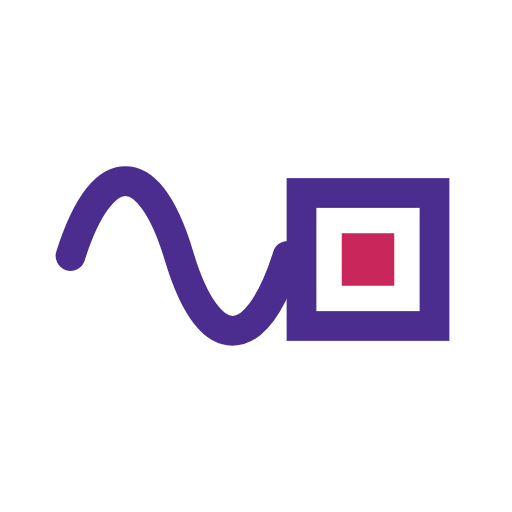
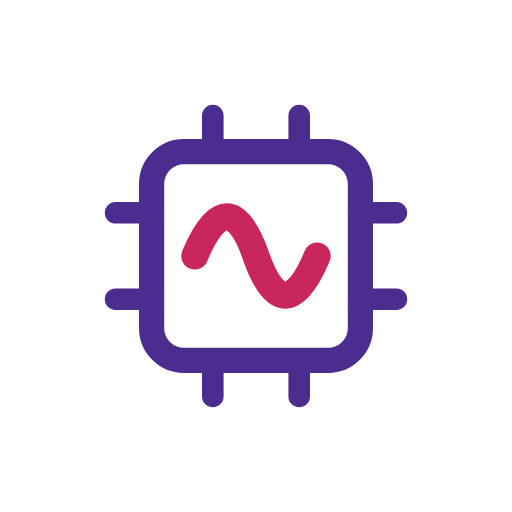
SEO optimizaTIONS...

Changed region(s): [[0.0938, 0.1875, 0.9062, 0.8125]]

diff --git a/vite.config.ts b/vite.config.ts
@@ -11,10 +11,12 @@ import {
 
 /**
  * The public origin the site is served from. Canonical URLs, Open Graph tags,
- * the sitemap, and the structured data all derive from this one value, so
- * moving the site to its real domain is a single edit here.
+ * the sitemap, and the structured data all derive from this one value.
+ *
+ * Set SITE_ORIGIN in the host's build environment to override it without
+ * touching the code; the fallback below is what ships if nothing is set.
  */
-const SITE_ORIGIN = "https://univabio.org";
+const SITE_ORIGIN = (process.env.SITE_ORIGIN ?? "https://univabio.org").replace(/\/$/, "");
 
 interface PageMeta {
   /** Public path, used for canonical and og:url. */
@@ -36,34 +38,34 @@ const pages: Record<string, PageMeta> = {
     path: "/",
     image: "/og/home.png",
     imageAlt: "UnivaBio: artificial intelligence for human health. Online worldwide, students 13 and up, closes October 6, 2026.",
-    title: "UnivaBio · A global student hackathon on AI for human health",
+    title: "UnivaBio · Online AI healthcare hackathon for students",
     description:
-      "UnivaBio is an online hackathon for students aged 13 and up, hosted by BioCataalysis with UnivaDev. Build an AI project for human health by October 6, 2026. $40,000 in non-cash sponsor prizes.",
+      "An online AI healthcare hackathon for students 13+, worldwide. Build an AI project for human health by October 6, 2026. $40,000 in non-cash sponsor prizes.",
   },
   "compete/index.html": {
     path: "/compete/",
     image: "/og/compete.png",
     imageAlt: "How to enter UnivaBio: four files, scored out of 25, closes October 6, 2026.",
-    title: "How to enter · UnivaBio",
+    title: "How to enter · UnivaBio AI hackathon",
     description:
-      "The four files every UnivaBio entry needs, the dates from submissions opening to winners, and the five criteria judges score each project against.",
+      "What to submit to this online AI healthcare hackathon: four files, the full schedule, and the five criteria judges score every project out of 25 against.",
   },
   "prizes/index.html": {
     path: "/prizes/",
     image: "/og/prizes.png",
     imageAlt: "UnivaBio prizes: $40,000 on the table, 104 winners, five categories, none of it cash.",
-    title: "Prizes · UnivaBio",
+    title: "Prizes · UnivaBio AI healthcare hackathon",
     description:
-      "Roughly $40,000 in non-cash sponsor prizes across five categories, awarded to 104 entrants, and the companies putting them up.",
+      "$40,000 in non-cash sponsor prizes across five categories, awarded to 104 entrants of this online student hackathon, and the companies putting them up.",
   },
   "rules/index.html": {
     path: "/rules/",
     faq: true,
     image: "/og/rules.png",
     imageAlt: "UnivaBio rules and answers: students 13 and up, solo or team, AI assistants welcome.",
-    title: "Rules & FAQ · UnivaBio",
+    title: "Rules & FAQ · UnivaBio student hackathon",
     description:
-      "Who can enter UnivaBio, what counts as a submission, how entries are scored out of 25, whether AI assistants are allowed, and how the non-cash prizes work.",
+      "Who can enter this virtual AI hackathon, what counts as a submission, whether AI assistants are allowed, and how entries are scored out of 25 points.",
   },
   "privacy/index.html": {
     path: "/privacy/",
@@ -174,11 +176,15 @@ function headMeta(root: string): Plugin {
       },
     },
 
-    /** robots.txt and the sitemap come from the same page table as the meta tags. */
+    /** robots.txt, the sitemap and the manifest all come from the page table. */
     generateBundle() {
       const indexable = Object.values(pages).filter((page) => !page.noindex);
+      const lastmod = new Date().toISOString().slice(0, 10);
       const urls = indexable
-        .map((page) => `  <url>\n    <loc>${SITE_ORIGIN}${page.path}</loc>\n  </url>`)
+        .map(
+          (page) =>
+            `  <url>\n    <loc>${SITE_ORIGIN}${page.path}</loc>\n    <lastmod>${lastmod}</lastmod>\n  </url>`,
+        )
         .join("\n");
 
       this.emitFile({
@@ -187,10 +193,44 @@ function headMeta(root: string): Plugin {
         source: `<?xml version="1.0" encoding="UTF-8"?>\n<urlset xmlns="http://www.sitemaps.org/schemas/sitemap/0.9">\n${urls}\n</urlset>\n`,
       });
 
+      // GitHub Pages reads CNAME to keep the custom domain bound to the site,
+      // and .nojekyll stops it running the output through Jekyll first.
+      this.emitFile({
+        type: "asset",
+        fileName: "CNAME",
+        source: `${new URL(SITE_ORIGIN).hostname}
+`,
+      });
+
+      this.emitFile({ type: "asset", fileName: ".nojekyll", source: "" });
+
       this.emitFile({
         type: "asset",
         fileName: "robots.txt",
         source: `User-agent: *\nAllow: /\n\nSitemap: ${SITE_ORIGIN}/sitemap.xml\n`,
+      });
+
+      // A manifest makes the site installable and gives Android a real icon.
+      this.emitFile({
+        type: "asset",
+        fileName: "site.webmanifest",
+        source: JSON.stringify(
+          {
+            name: "UnivaBio",
+            short_name: "UnivaBio",
+            description: pages["index.html"].description,
+            start_url: "/",
+            display: "standalone",
+            background_color: "#0e0716",
+            theme_color: "#0e0716",
+            icons: [
+              { src: "/icon-192.png", sizes: "192x192", type: "image/png" },
+              { src: "/icon-512.png", sizes: "512x512", type: "image/png" },
+            ],
+          },
+          null,
+          2,
+        ),
       });
     },
   };

diff --git a/tools/brand-card.html b/tools/brand-card.html
@@ -10,6 +10,7 @@
     logo    the lockup alone on transparency
     mark    the glyph alone on transparency
     og      1200x630 link-preview card; ?title= and ?facts= fill it
+    icon    square app icon / avatar: the glyph on a filled tile
 
   Colors and type match src/styles/base.css. Edit here, re-run, done.
 -->
@@ -221,6 +222,9 @@
         color: var(--lilac);
       }
 
+      body[data-v="icon"] .name,
+      body[data-v="icon"] .divider,
+      body[data-v="icon"] .partner,
       body[data-v="mark"] .name,
       body[data-v="mark"] .divider,
       body[data-v="mark"] .partner {
@@ -252,10 +256,15 @@
       <div class="scrim"></div>
 
       <div class="lockup">
-        <svg class="mark" viewBox="0 0 24 24" fill="none" stroke="#c0a6ff" stroke-width="1.7" stroke-linecap="round">
-          <path d="M1.4 12C3.2 6.3 5.9 6.3 7.6 12C9.3 17.7 12 17.7 13.8 12" />
-          <rect x="14.6" y="8.4" width="7.6" height="7.6" />
-          <rect x="16.9" y="10.7" width="3" height="3" fill="#ff5f8f" stroke="none" />
+        <svg class="mark" viewBox="0 0 100 100" fill="none" stroke="#c0a6ff" stroke-width="7" stroke-linecap="round">
+          <rect x="21" y="21" width="58" height="58" rx="9" />
+          <g stroke-width="6">
+            <path d="M38 21V11" /><path d="M62 21V11" />
+            <path d="M38 79V89" /><path d="M62 79V89" />
+            <path d="M21 38H11" /><path d="M21 62H11" />
+            <path d="M79 38H89" /><path d="M79 62H89" />
+          </g>
+          <path d="M33 50C39 35.5 45 35.5 50 50C55 64.5 61 64.5 67 50" stroke="#ff5f8f" stroke-width="7.5" />
         </svg>
 
         <div class="name">
@@ -283,8 +292,9 @@
       document.body.dataset.v = variant;
       // Only the two dark variants paint a background; the rest stay transparent
       // so the PNG can sit on anything.
-      document.body.dataset.bg =
-        variant === "banner" || variant === "card" || variant === "og" ? "dark" : "light";
+      document.body.dataset.bg = ["banner", "card", "og", "icon"].includes(variant)
+        ? "dark"
+        : "light";
 
       if (edition !== null) {
         const node = document.getElementById("edition");
@@ -300,6 +310,13 @@
           blobs: [
             [18, 34, 26, "#ff5f8f"], [62, 2, 22, "#c0a6ff"], [108, 40, 20, "#ff9142"],
             [168, 0, 24, "#ff5f8f"], [206, 36, 22, "#c0a6ff"], [238, 8, 20, "#ff9142"],
+          ],
+        },
+        icon: {
+          box: "0 0 100 100",
+          blobs: [
+            [10, 78, 34, "#ff5f8f"], [30, 14, 26, "#c0a6ff"], [84, 30, 30, "#ff9142"],
+            [92, 86, 26, "#c0a6ff"],
           ],
         },
         og: {
@@ -333,15 +350,16 @@
         root.setProperty("--lilac", "#4a2d8f");
         root.setProperty("--lava", "#c2560d");
         document.querySelector(".mark").setAttribute("stroke", "#4a2d8f");
-        document.querySelector(".mark rect[fill]").setAttribute("fill", "#c9265c");
+        document.querySelector(".mark path[stroke]").setAttribute("stroke", "#c9265c");
       }
 
       const sizing = {
         banner: { markSize: "96px", wordSize: "128px", gap: "38px", nameGap: "20px", editionSize: "30px", dividerH: "104px", partnerSize: "26px" },
         card: { markSize: "86px", wordSize: "116px", gap: "32px", nameGap: "18px", editionSize: "27px", dividerH: "92px", partnerSize: "23px" },
+        icon: { markSize: "62vmin" },
         og: { markSize: "48px", wordSize: "62px", gap: "20px", nameGap: "14px", editionSize: "18px" },
         logo: { markSize: "120px", wordSize: "168px", gap: "44px", nameGap: "26px", editionSize: "38px" },
-        mark: { markSize: "420px" },
+        mark: { markSize: "360px" },
       };
 
       for (const [key, value] of Object.entries(sizing[variant] || {})) {

diff --git a/src/marks/ChipMark.tsx b/src/marks/ChipMark.tsx
@@ -1,0 +1,39 @@
+/**
+ * The house mark: a chip with a wave running through it.
+ *
+ * Square by construction, which the old wide wave-into-chip lockup was not, so
+ * it survives being an avatar, an app icon and a favicon. It also compresses
+ * the whole idea of the page's big drawing into one glyph: the signal from a
+ * living thing, running through silicon.
+ */
+export function ChipMark({ className }: { className?: string }) {
+  return (
+    <svg
+      className={className}
+      viewBox="0 0 100 100"
+      fill="none"
+      stroke="currentColor"
+      strokeWidth={7}
+      strokeLinecap="round"
+      aria-hidden="true"
+      focusable="false"
+    >
+      <rect x="21" y="21" width="58" height="58" rx="9" />
+      <g strokeWidth={6}>
+        <path d="M38 21V11" />
+        <path d="M62 21V11" />
+        <path d="M38 79V89" />
+        <path d="M62 79V89" />
+        <path d="M21 38H11" />
+        <path d="M21 62H11" />
+        <path d="M79 38H89" />
+        <path d="M79 62H89" />
+      </g>
+      <path
+        d="M33 50C39 35.5 45 35.5 50 50C55 64.5 61 64.5 67 50"
+        stroke="var(--magenta)"
+        strokeWidth={7.5}
+      />
+    </svg>
+  );
+}

diff --git a/src/components/Footer.tsx b/src/components/Footer.tsx
@@ -7,7 +7,7 @@ import {
   scheduleEvents,
 } from "../content/content";
 import { useScheduleStatus } from "../hooks/useScheduleStatus";
-import { HelixMark } from "../marks/HelixMark";
+import { ChipMark } from "../marks/ChipMark";
 import { Counter } from "./Counter";
 import { Reveal } from "./Reveal";
 import styles from "./Footer.module.css";
@@ -40,7 +40,7 @@ export function Footer() {
       <div className={`page ${styles.meta}`}>
         <div className={styles.brand}>
           <span className={styles.wordmark}>
-            <HelixMark className={styles.mark} />
+            <ChipMark className={styles.mark} />
             UnivaBio
           </span>
           <p className={styles.brandNote}>

diff --git a/404.html b/404.html
@@ -5,6 +5,8 @@
     <meta name="viewport" content="width=device-width, initial-scale=1" />
     <meta name="theme-color" content="#0e0716" />
     <link rel="icon" type="image/svg+xml" href="/favicon.svg" />
+    <link rel="apple-touch-icon" href="/apple-touch-icon.png" />
+    <link rel="manifest" href="/site.webmanifest" />
     <link rel="preconnect" href="https://fonts.googleapis.com" />
     <link rel="preconnect" href="https://fonts.gstatic.com" crossorigin />
     <link href="https://fonts.googleapis.com/css2?family=Archivo:wght@400..700&amp;family=Fraunces:opsz,wght,SOFT,WONK@9..144,400..900,0..100,0..1&amp;family=Spline+Sans+Mono:wght@400;500&amp;display=swap" rel="stylesheet" />

diff --git a/compete/index.html b/compete/index.html
@@ -5,6 +5,8 @@
     <meta name="viewport" content="width=device-width, initial-scale=1" />
     <meta name="theme-color" content="#0e0716" />
     <link rel="icon" type="image/svg+xml" href="/favicon.svg" />
+    <link rel="apple-touch-icon" href="/apple-touch-icon.png" />
+    <link rel="manifest" href="/site.webmanifest" />
     <link rel="preconnect" href="https://fonts.googleapis.com" />
     <link rel="preconnect" href="https://fonts.gstatic.com" crossorigin />
     <link href="https://fonts.googleapis.com/css2?family=Archivo:wght@400..700&amp;family=Fraunces:opsz,wght,SOFT,WONK@9..144,400..900,0..100,0..1&amp;family=Spline+Sans+Mono:wght@400;500&amp;display=swap" rel="stylesheet" />

diff --git a/index.html b/index.html
@@ -5,6 +5,8 @@
     <meta name="viewport" content="width=device-width, initial-scale=1" />
     <meta name="theme-color" content="#0e0716" />
     <link rel="icon" type="image/svg+xml" href="/favicon.svg" />
+    <link rel="apple-touch-icon" href="/apple-touch-icon.png" />
+    <link rel="manifest" href="/site.webmanifest" />
     <link rel="preconnect" href="https://fonts.googleapis.com" />
     <link rel="preconnect" href="https://fonts.gstatic.com" crossorigin />
     <link href="https://fonts.googleapis.com/css2?family=Archivo:wght@400..700&amp;family=Fraunces:opsz,wght,SOFT,WONK@9..144,400..900,0..100,0..1&amp;family=Spline+Sans+Mono:wght@400;500&amp;display=swap" rel="stylesheet" />

diff --git a/privacy/index.html b/privacy/index.html
@@ -5,6 +5,8 @@
     <meta name="viewport" content="width=device-width, initial-scale=1" />
     <meta name="theme-color" content="#0e0716" />
     <link rel="icon" type="image/svg+xml" href="/favicon.svg" />
+    <link rel="apple-touch-icon" href="/apple-touch-icon.png" />
+    <link rel="manifest" href="/site.webmanifest" />
     <link rel="preconnect" href="https://fonts.googleapis.com" />
     <link rel="preconnect" href="https://fonts.gstatic.com" crossorigin />
     <link href="https://fonts.googleapis.com/css2?family=Archivo:wght@400..700&amp;family=Fraunces:opsz,wght,SOFT,WONK@9..144,400..900,0..100,0..1&amp;family=Spline+Sans+Mono:wght@400;500&amp;display=swap" rel="stylesheet" />

diff --git a/prizes/index.html b/prizes/index.html
@@ -5,6 +5,8 @@
     <meta name="viewport" content="width=device-width, initial-scale=1" />
     <meta name="theme-color" content="#0e0716" />
     <link rel="icon" type="image/svg+xml" href="/favicon.svg" />
+    <link rel="apple-touch-icon" href="/apple-touch-icon.png" />
+    <link rel="manifest" href="/site.webmanifest" />
     <link rel="preconnect" href="https://fonts.googleapis.com" />
     <link rel="preconnect" href="https://fonts.gstatic.com" crossorigin />
     <link href="https://fonts.googleapis.com/css2?family=Archivo:wght@400..700&amp;family=Fraunces:opsz,wght,SOFT,WONK@9..144,400..900,0..100,0..1&amp;family=Spline+Sans+Mono:wght@400;500&amp;display=swap" rel="stylesheet" />

diff --git a/rules/index.html b/rules/index.html
@@ -5,6 +5,8 @@
     <meta name="viewport" content="width=device-width, initial-scale=1" />
     <meta name="theme-color" content="#0e0716" />
     <link rel="icon" type="image/svg+xml" href="/favicon.svg" />
+    <link rel="apple-touch-icon" href="/apple-touch-icon.png" />
+    <link rel="manifest" href="/site.webmanifest" />
     <link rel="preconnect" href="https://fonts.googleapis.com" />
     <link rel="preconnect" href="https://fonts.gstatic.com" crossorigin />
     <link href="https://fonts.googleapis.com/css2?family=Archivo:wght@400..700&amp;family=Fraunces:opsz,wght,SOFT,WONK@9..144,400..900,0..100,0..1&amp;family=Spline+Sans+Mono:wght@400;500&amp;display=swap" rel="stylesheet" />

diff --git a/src/components/Nav.tsx b/src/components/Nav.tsx
@@ -1,5 +1,5 @@
 import { DEVPOST_URL, navLinks } from "../content/content";
-import { HelixMark } from "../marks/HelixMark";
+import { ChipMark } from "../marks/ChipMark";
 import styles from "./Nav.module.css";
 
 interface NavProps {
@@ -12,7 +12,7 @@ export function Nav({ current = "/" }: NavProps) {
     <header className={styles.bar}>
       <div className={`page ${styles.inner}`}>
         <a className={styles.wordmark} href="/" aria-label="UnivaBio home">
-          <HelixMark className={styles.mark} />
+          <ChipMark className={styles.mark} />
           <span>UnivaBio</span>
         </a>
 

diff --git a/src/marks/submitIcons.tsx b/src/marks/submitIcons.tsx
@@ -1,7 +1,7 @@
 import type { ReactElement } from "react";
 
 /**
- * One icon per submission deliverable, drawn to the same rules as HelixMark:
+ * One icon per submission deliverable, drawn to the same rules as ChipMark:
  * 24px box, 1.6 stroke, round caps, ink outline with a single teal element
  * carrying the meaning. Each silhouette is deliberately different (a window, a
  * circle, a sheet, brackets) so the four stay apart at this size.
